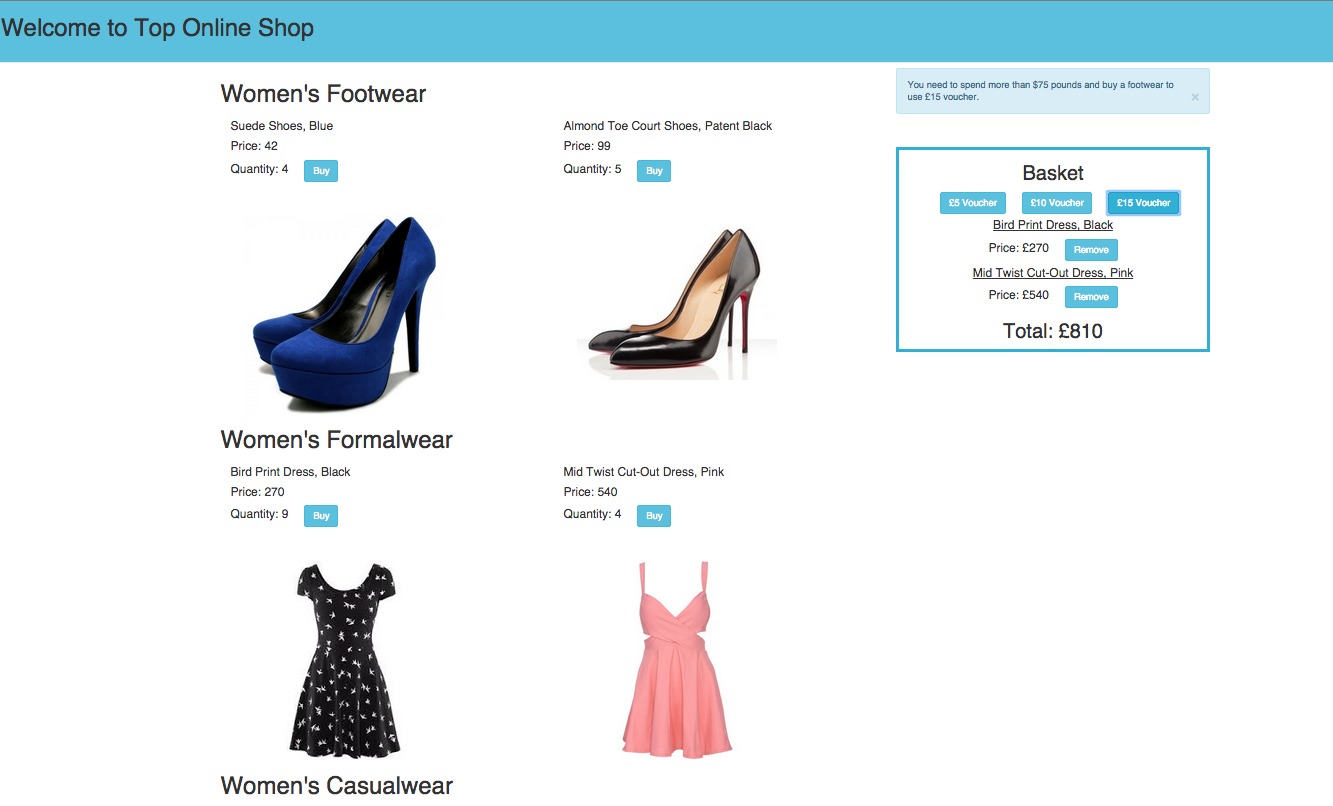
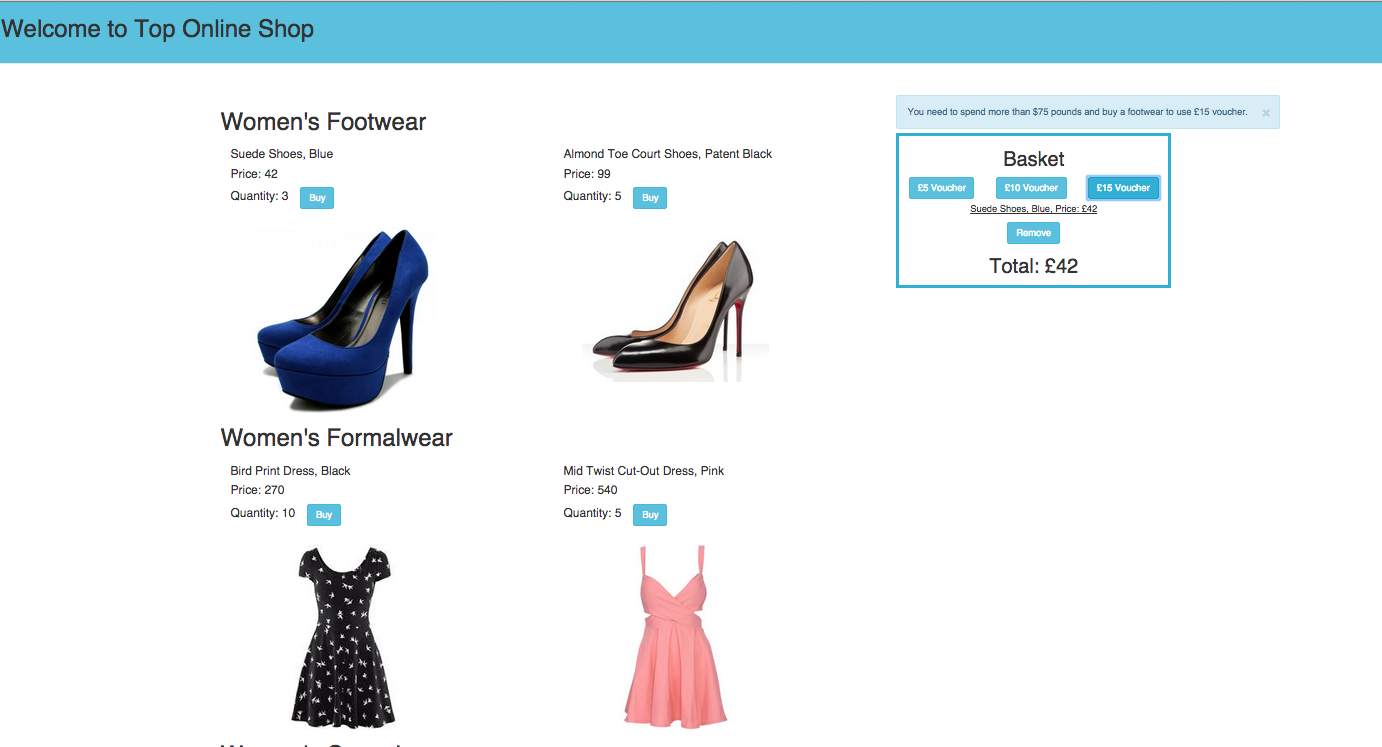
Code refactored. README updated.

diff --git a/public/index.html b/public/index.html
@@ -14,36 +14,34 @@
         </div>
       </nav>
       <div class="row">
-        <div class="col-md-8">
+        <div class="col-xs-12 col-md-8 col-sm-6">
           <section>
-          <div class="row" ng-repeat="(type,items) in control.shop.items">
-            <h1>{{type}}</h1>
-            <div class="col-md-6" ng-repeat="item in items">
+            <div class="row" ng-repeat="(type,items) in control.shop.items">
+              <h1>{{type}}</h1>
+              <div class="col-xs-8 col-md-6 col-sm-4" ng-repeat="item in items">
                 <h4>{{item.name}}</h4>
                 <h4>Price: {{item.price}}</h4>
                 <h4 class="item-quantity">Quantity: {{item.quantity}}</h4>
                 <button id="buy" class="btn btn-info" ng-if="item.quantity != 0" ng-click="control.shop.addToBasket(item); control.setTab(1)">Buy</button>
                 <button id="sold" class="btn btn-default" ng-if="item.quantity === 0">Sold</button>
-                <img class="img" ng-src="{{item.image}}">
+                <div><img class="row img" ng-src="{{item.image}}"></div>
               </div>
             </div>
           </section>
         </div>
-        <div class="col-md-4">
-          <div class="msg" flash-message="5000"></div>
+        <div class="col-xs-6 col-md-4 col-sm-2">
+        <div class="msg" flash-message="5000"></div>
           <section>
             <div class="basket" ng-show="control.isSet(1)" ng-if="control.shop.totalPrice() !=0">
-            <h2>Basket</h2>
+              <h2>Basket</h2>
               <button class="btn btn-info" id="five-pounds" ng-click="control.shop.applyVoucher(5)">£5 Voucher</button>
               <button class="btn btn-info" id="ten-pounds" ng-click="control.shop.applyVoucher(10)">£10 Voucher</button>
               <button class="btn btn-info" id="fifteen-pounds" ng-click="control.shop.applyVoucher(15)">£15 Voucher</button>
-              <div class="row" ng-repeat="(index, item) in control.shop.order track by $index">
-                <h4 class="item-name">{{item.name}}</h4>
-                <h4 class="item-price" >Price: £{{item.price}}</h4>
+              <div class="row basket-item" ng-repeat="(index, item) in control.shop.order track by $index">
+                <p class="item-name">{{item.name}}, Price: £{{item.price}}</p>
                 <button id="remove" class="btn btn-info" ng-click="control.shop.removeItemFromBasket(item)">Remove</button>
               </div>
               <h2 id="total-price"> Total: £{{control.shop.totalPrice()}}</h2>
-            </div>
           </section >
         </div>
       </div>

diff --git a/public/css/style.css b/public/css/style.css
@@ -4,31 +4,28 @@
   }
 }
 
+
 .navbar {
   background-color: #5bc0de;
 }
 
 body {
   font-family: sans-serif;
-  padding-top: 100px;
+  padding-top: 10em;
 }
-
-a {
-  font-size: 20px;
-}
-
 
 .img {
-  width: 300px;
-  margin-top: 50px;
-  margin-left: 20px;
+  width: 20em;
+  margin-top: 2em;
+  margin-left: 2em;
 }
 
 .btn {
-  margin-left: 20px;
+  margin-left: 1em;
+  margin-right: 1em;
 }
 
-.item-quantity, .item-price, #buy, #sold #remove{
+.item-quantity, #sold, #buy {
   display: inline;
 }
 
@@ -37,8 +34,18 @@ a {
 }
 
 .basket {
-  margin-top: 50px;
+  margin-top: 4em;
   text-align: center;
   border-style: solid;
   border-color: #31b0d5;
+  position: fixed;
 }
+
+.basket-item {
+  margin-top: 0.5em;
+}
+
+.msg {
+  position: fixed;
+}
+

diff --git a/tests/e2e/onlineShopFeature.js b/tests/e2e/onlineShopFeature.js
@@ -28,7 +28,7 @@ describe('Angular shop', function() {
 
   it('can add item to the basket', function(){
     addToBasket.click();
-    expect(basketItem.getText()).toEqual('Suede Shoes, Blue');
+    expect(basketItem.getText()).toContain('Suede Shoes, Blue');
   });
 
   it('display out-of-stock button when item quantity is 0', function(){
@@ -54,7 +54,7 @@ describe('Angular shop', function() {
 
   it('can remove item from the basket', function(){
     addToBasket.click();
-    expect(basketItem.getText()).toEqual('Suede Shoes, Blue');
+    expect(basketItem.getText()).toContain('Suede Shoes, Blue');
     removeFromBasket.click();
     expect(basketItem).toBeUndefined;
   });

diff --git a/tests/shopController.spec.js b/tests/shopController.spec.js
@@ -13,7 +13,7 @@ describe('Shop Controller', function(){
    }));
 
 
-  it('should have a Game Factory defined', function() {
+  it('should have a Shop Factory defined', function() {
     expect(ShopFactoryMock).toBeDefined();
   });
 

diff --git a/README.md b/README.md
@@ -33,6 +33,18 @@ Tested with:
 
 ##Approach:
 
+This is my second attempt on this challenge.
+
+After initial feedback I tried to address all highlited issues on ionic application. Please see the repository here [Top Online Shop](https://github.com/AnnaKL/Top-Online-Shop).
+However, I also decided to have another go and use pure AngularJS as I felt more comfortable with it.
+Both of these applications contains similar logic, which follows MVC principles and had been refactored to get rid of repetition and make the code more readeable.
+I built both of them by applying TDD principles with Karma unit testing and Protractor UI testing.
+This project is a SPA(Single Page Application) optimized for desktop and styled with Bootstrap and CSS.
+It displays all provided data in sections seperating Female and Male Wardrobe categories.
+The basket appears only when used adds an item to an order and dissapears when all items are deleted.
+All three vouchers are located in the basket and their requirements can be found in User Stories above. Vouchers can be applied only once. However, if user decides to remove any of the items from the basket any previously used discounts are cancelled and vouchers are active again. I've used Angular Flash module to create and show flash messages with information about requirements, if any of them is not met and user tried to apply the voucher.
+I also used NodeJS Express as a server.
+
 ##File structure:
 
 * Module is located in ```public/js/app.js```
@@ -48,7 +60,7 @@ Tested with:
 Please make sure that you have Node.js and Bower installed. Then:
 ```
 git clone git@github.com:AnnaKL/Angular-Top-Online-Shop.git
-Angular-Top-Online-Shop
+cd Angular-Top-Online-Shop
 bower install
 npm install
 npm start
